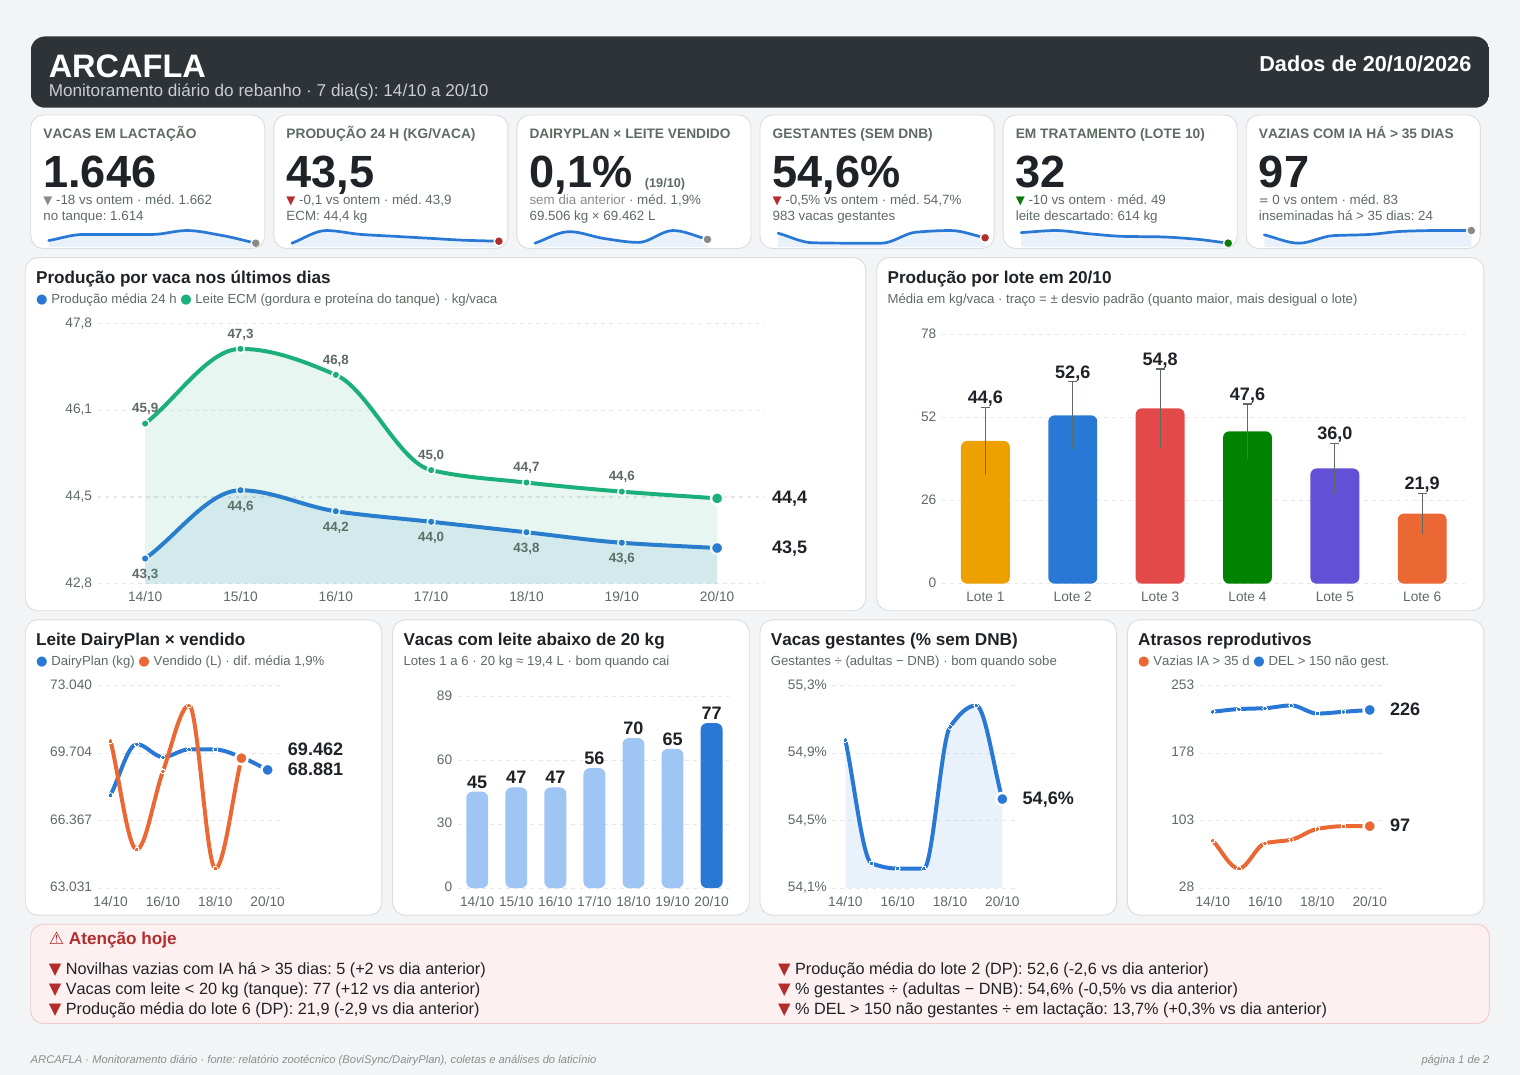
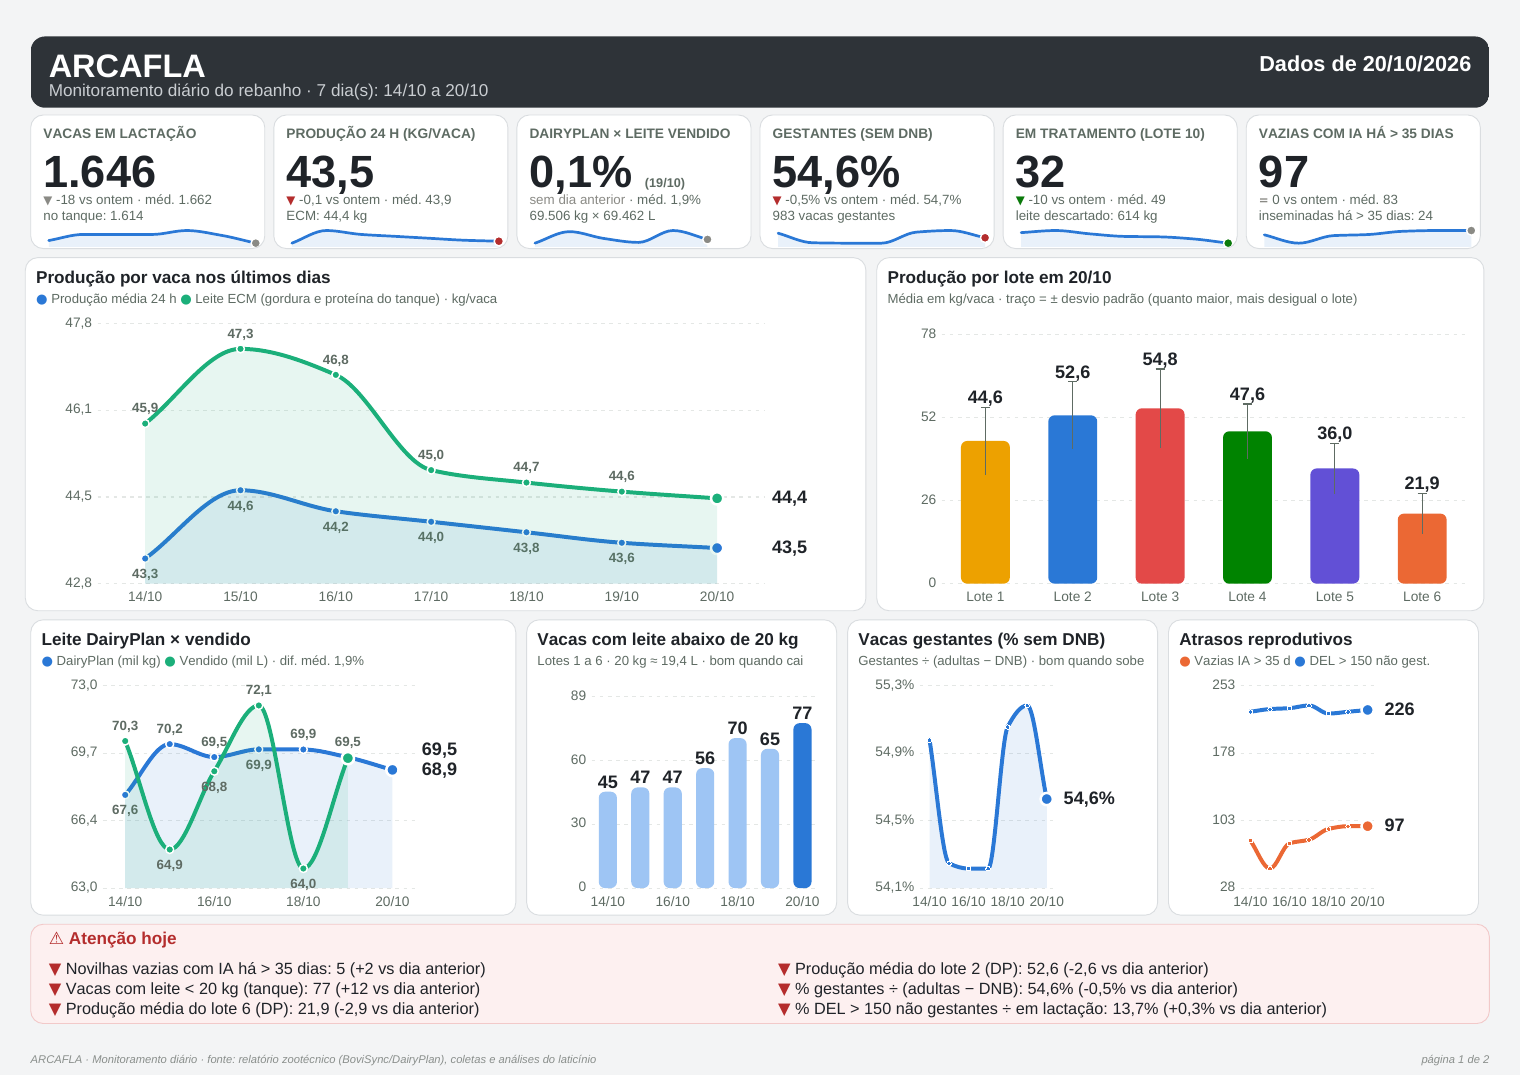
Gráfico DairyPlan × vendido em azul e verde com valores (em mil) e mais largo; datas espaçadas nos gráficos estreitos
Claude-Session: https://claude.ai/code/session_01E6SmznsG4fwjxZt5rHRDBH

Changed region(s): [[0.0309, 0.5833, 0.927, 0.8595], [0.8034, 0.7674, 0.927, 0.8595], [0.2472, 0.8288, 0.2781, 0.8595]]

diff --git a/scripts/monitor_pdf.py b/scripts/monitor_pdf.py
@@ -285,8 +285,11 @@ def grafico_linhas(series, w, h, nf, nf_rot=None, zero=False, area=False, valore
         for idx, (x, y) in enumerate(pts[:-1]):
             d.add(Circle(x, y, 2.2 if valores else 1.3, fillColor=cor, strokeColor=colors.white,
                          strokeWidth=0.8 if valores else 0))
-            if valores:  # valor de cada dia: série de cima acima do ponto, a de baixo abaixo
-                dy = 6 if k == len(series) - 1 else -11
+            if valores:  # valor de cada dia, do lado de fora: acima se a série está por cima naquele dia
+                i_dia = [i for i, v in enumerate(vs) if v is not None][idx]
+                outros = [o[1][i_dia] for o in series if o[1] is not vs and o[1][i_dia] is not None]
+                por_cima = all(vs[i_dia] >= o for o in outros) if outros else True
+                dy = 6 if por_cima else -11
                 d.add(String(x, y + dy, fmt(vals_ok[idx], nf_rot or nf), fontName="LibB", fontSize=7.4,
                              fillColor=TINTA2, textAnchor="middle"))
         if pts:
@@ -312,7 +315,8 @@ def grafico_barras(rotulos, vals, w, h, nf, cor=S1, erros=None, destaque_ult=Fal
     bw = larg / n * 0.56
     for i, v in enumerate(vals):
         cx = x0 + larg * (i + 0.5) / n
-        d.add(String(cx, y0 - 10, rotulos[i], fontName="Lib", fontSize=7.6, fillColor=TINTA2, textAnchor="middle"))
+        if larg / n >= 30 or (n - 1 - i) % 2 == 0:  # em gráficos estreitos, um rótulo sim, outro não
+            d.add(String(cx, y0 - 10, rotulos[i], fontName="Lib", fontSize=7.6, fillColor=TINTA2, textAnchor="middle"))
         if v is None:
             continue
         c = (cores[i] if cores else cor)
@@ -463,15 +467,18 @@ g_lote = caixa(f"Produção por lote em {ultimo:%d/%m}",
                               cores=[COR_LOTE[i] for i in range(1, 7)]),
                G2W)
 
-G3W = LARG / 4 - 4.5
+G3W = LARG * 0.22 - 6      # gráficos menores da 2ª fileira
+GLW = LARG * 0.34 - 6      # leite DairyPlan × vendido, mais largo (dois conjuntos de valores)
 GH2 = 134
 dp_s, vd_s = serie("Leite Total dia DairyPlan"), serie("Leite vendido no dia (coletas do laticínio)")
+dp_s, vd_s = [[v / 1000 if v is not None else None for v in x] for x in (dp_s, vd_s)]  # em mil
 dif = itens.get("Diferença DairyPlan × vendido")
 dif_med = fmt(dif["media"], dif["mfmt"]) if dif and dif["media"] not in (None, "") else "–"
 g_leite = caixa("Leite DairyPlan × vendido",
-                legenda_series([("DairyPlan (kg)", S1), ("Vendido (L)", S2)]) + f" · dif. média <b>{dif_med}</b>",
-                grafico_linhas([("dp", dp_s, S1), ("vd", vd_s, S2)], G3W - 10, GH2, "#,##0"),
-                G3W)
+                legenda_series([("DairyPlan (mil kg)", S1), ("Vendido (mil L)", S3)]) + f" · dif. méd. <b>{dif_med}</b>",
+                grafico_linhas([("dp", dp_s, S1), ("vd", vd_s, S3)], GLW - 10, GH2, "0.0",
+                               area="todas", valores=True),
+                GLW)
 m20 = serie("Vacas com leite < 20 kg (tanque)")
 g_20 = caixa("Vacas com leite abaixo de 20 kg",
              "Lotes 1 a 6 · 20 kg ≈ 19,4 L · bom quando cai",
@@ -522,7 +529,7 @@ quadro_at.setStyle(TableStyle([("SPAN", (0, 0), (-1, 0)), ("VALIGN", (0, 0), (-1
                                ("TOPPADDING", (0, 0), (-1, -1), 2), ("BOTTOMPADDING", (0, 0), (-1, -1), 3)]))
 
 linha1 = Table([[g_prod, g_lote]], colWidths=[G1W + 6, G2W + 6])
-linha2 = Table([[g_leite, g_20, g_gest, g_rep]], colWidths=[G3W + 6] * 4)
+linha2 = Table([[g_leite, g_20, g_gest, g_rep]], colWidths=[GLW + 6] + [G3W + 6] * 3)
 for t in (linha1, linha2):
     t.setStyle(TableStyle([("LEFTPADDING", (0, 0), (-1, -1), 0), ("RIGHTPADDING", (0, 0), (-1, -1), 6),
                            ("TOPPADDING", (0, 0), (-1, -1), 0), ("BOTTOMPADDING", (0, 0), (-1, -1), 0),
